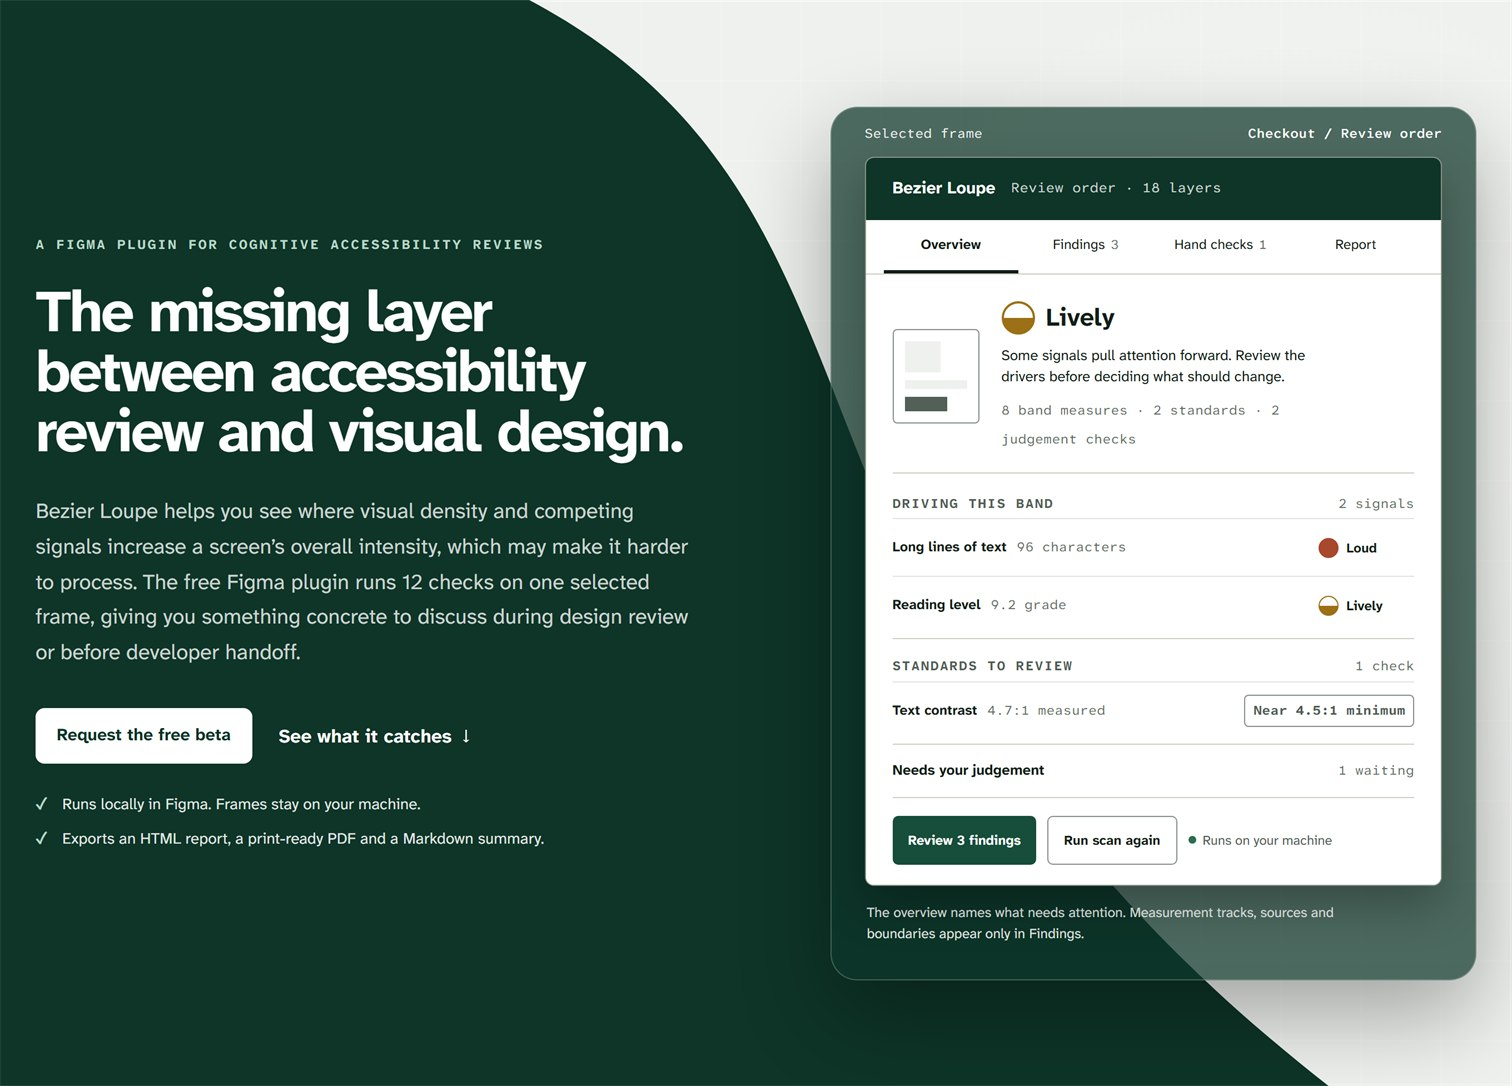
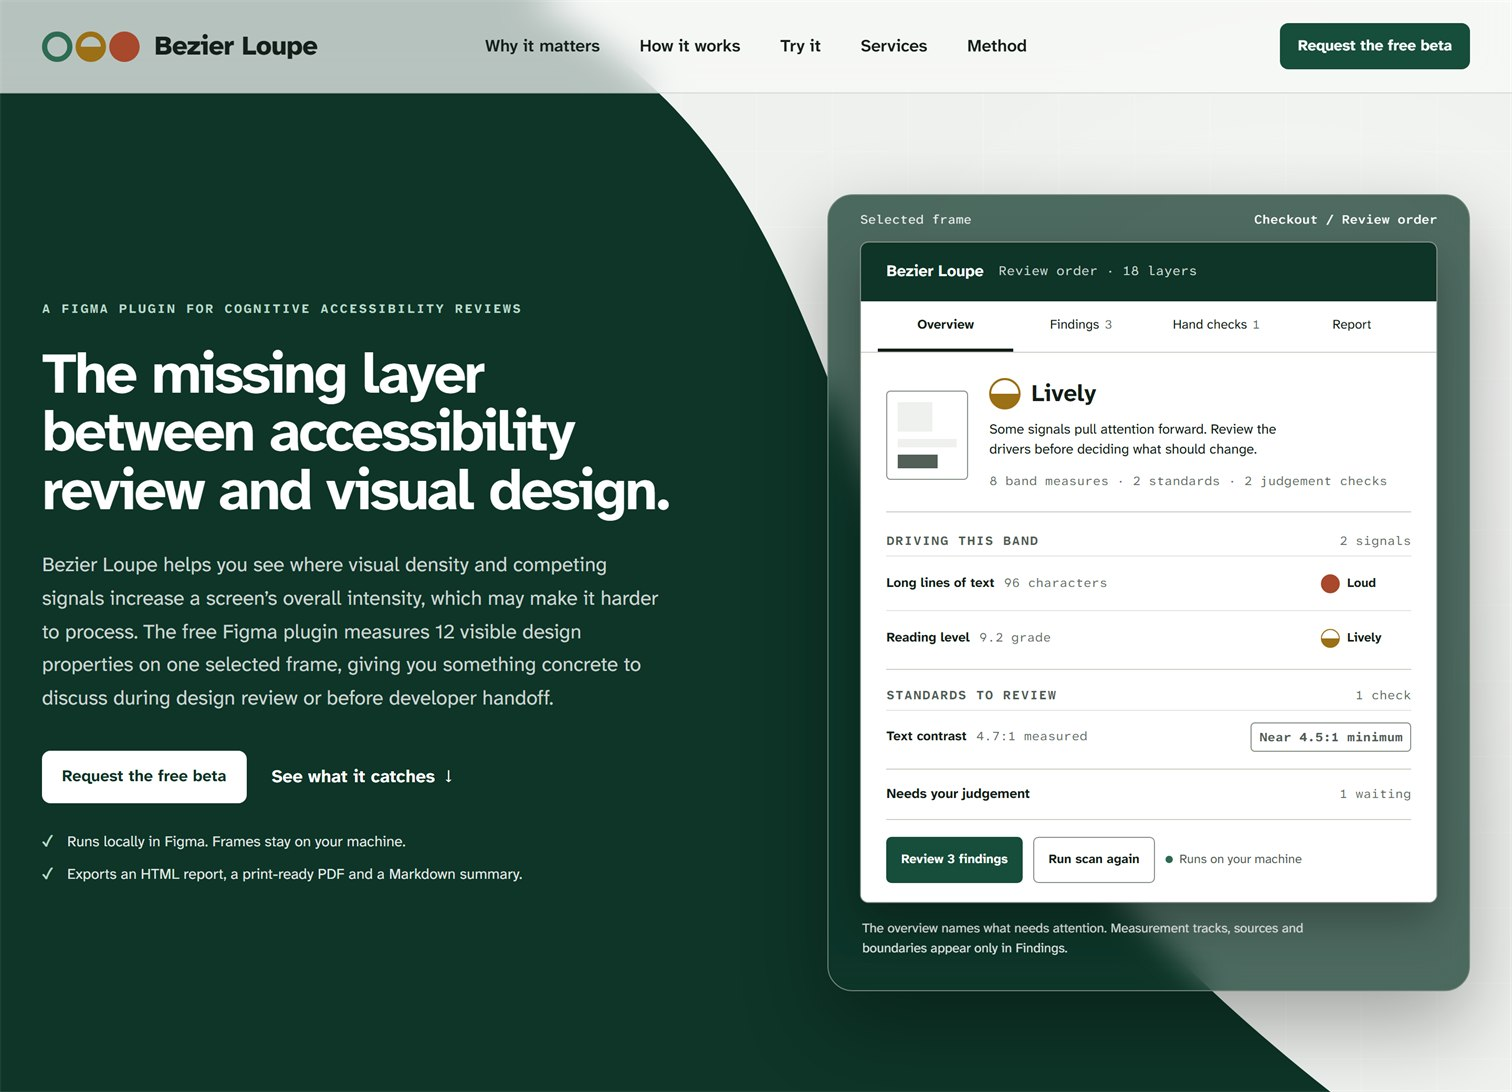
Reshoot the teaser thumbnail on the current product site
The site picked up a new navigation bar and rewrote its lede to "measures
12 visible design properties". The card was showing the version before
that. Captured at a 1440px viewport so the image keeps its 1.39 ratio and
stays level with the copy beside it.

diff --git a/index.html b/index.html
@@ -1853,7 +1853,7 @@ body::after {
     <h2 class="section-heading expertise-heading-anim">Featured <em>case studies</em></h2>
     <div class="cs-list">
       <div class="cs-row cs-row--soon">
-        <div class="cs-media cs-media--wide"><img src="bl-card.jpg?v=4" alt="The Bezier Loupe product site. A dark green curve fills the left of the page, carrying the headline The missing layer between accessibility review and visual design, and a paragraph explaining that the plugin shows where visual density and competing signals increase a screen's overall intensity. Two ticks read Runs locally in Figma, frames stay on your machine, and Exports an HTML report, a print-ready PDF and a Markdown summary. On the right sits a specimen of the plugin panel reading Lively for a checkout frame" width="1512" height="1086" loading="lazy"></div>
+        <div class="cs-media cs-media--wide"><img src="bl-card.jpg?v=5" alt="The Bezier Loupe product site. A navigation bar carries the wordmark beside three circles, one open, one half filled and one solid. Below it a dark green curve fills the left of the page, holding the headline The missing layer between accessibility review and visual design, and a paragraph explaining that the plugin measures 12 visible design properties on one selected frame. Two ticks read Runs locally in Figma, frames stay on your machine, and Exports an HTML report, a print-ready PDF and a Markdown summary. On the right sits a specimen of the plugin panel reading Lively for a checkout frame" width="1512" height="1092" loading="lazy"></div>
         <div class="cs-body">
           <span class="cs-kicker"><span class="cs-num">01</span><span class="cs-kicker-text">Bezier Loupe &middot; Figma plugin &middot; 2026</span></span>
           <h3 class="cs-title">A Figma plugin that measures visual density and competing signals before development&nbsp;handoff</h3>

diff --git a/work.html b/work.html
@@ -806,7 +806,7 @@ body::after {
 <div class="work-grid">
       <div class="cs-list">
       <div class="cs-row cs-row--soon">
-        <div class="cs-media cs-media--wide"><img src="bl-card.jpg?v=4" alt="The Bezier Loupe product site. A dark green curve fills the left of the page, carrying the headline The missing layer between accessibility review and visual design, and a paragraph explaining that the plugin shows where visual density and competing signals increase a screen's overall intensity. Two ticks read Runs locally in Figma, frames stay on your machine, and Exports an HTML report, a print-ready PDF and a Markdown summary. On the right sits a specimen of the plugin panel reading Lively for a checkout frame" width="1512" height="1086" loading="lazy"></div>
+        <div class="cs-media cs-media--wide"><img src="bl-card.jpg?v=5" alt="The Bezier Loupe product site. A navigation bar carries the wordmark beside three circles, one open, one half filled and one solid. Below it a dark green curve fills the left of the page, holding the headline The missing layer between accessibility review and visual design, and a paragraph explaining that the plugin measures 12 visible design properties on one selected frame. Two ticks read Runs locally in Figma, frames stay on your machine, and Exports an HTML report, a print-ready PDF and a Markdown summary. On the right sits a specimen of the plugin panel reading Lively for a checkout frame" width="1512" height="1092" loading="lazy"></div>
         <div class="cs-body">
           <span class="cs-kicker"><span class="cs-num">01</span><span class="cs-kicker-text">Bezier Loupe &middot; Figma plugin &middot; 2026</span></span>
           <h3 class="cs-title">A Figma plugin that measures visual density and competing signals before development&nbsp;handoff</h3>
